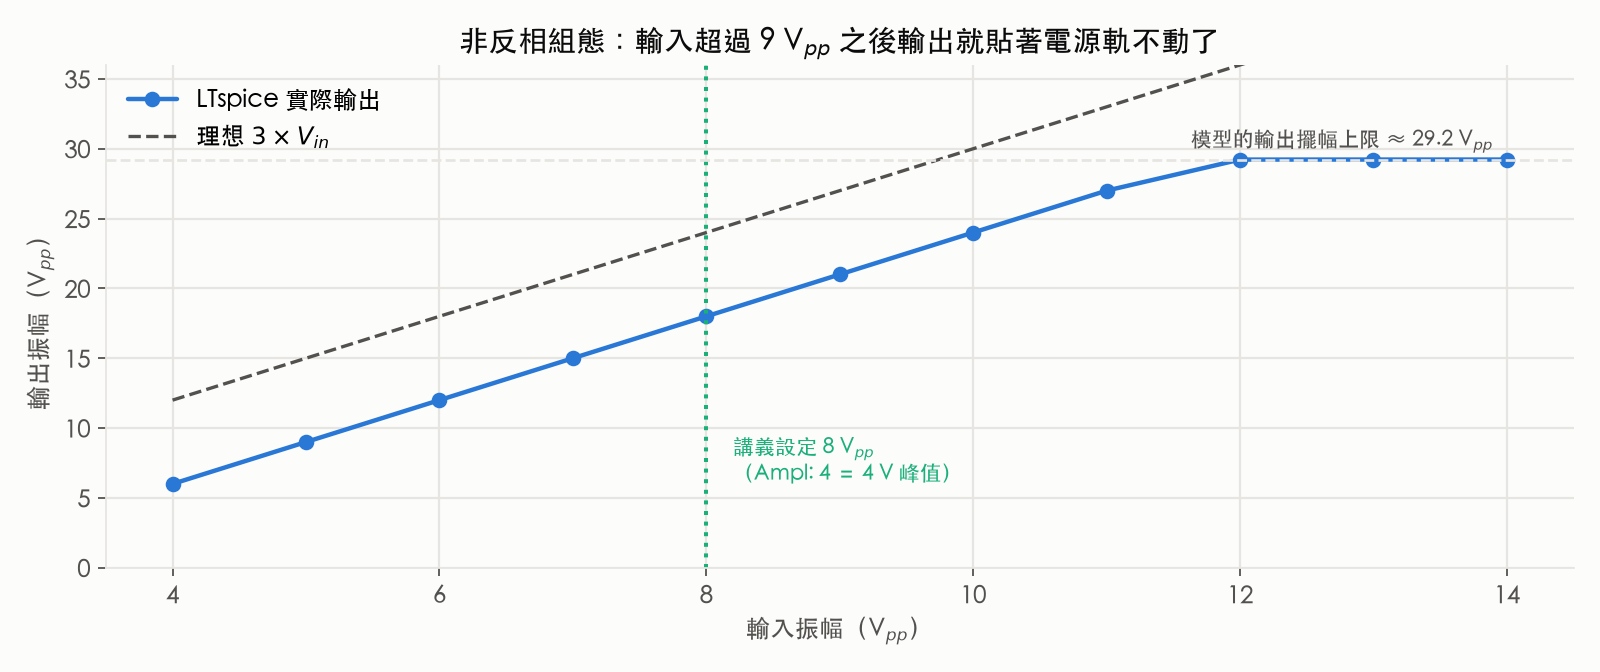
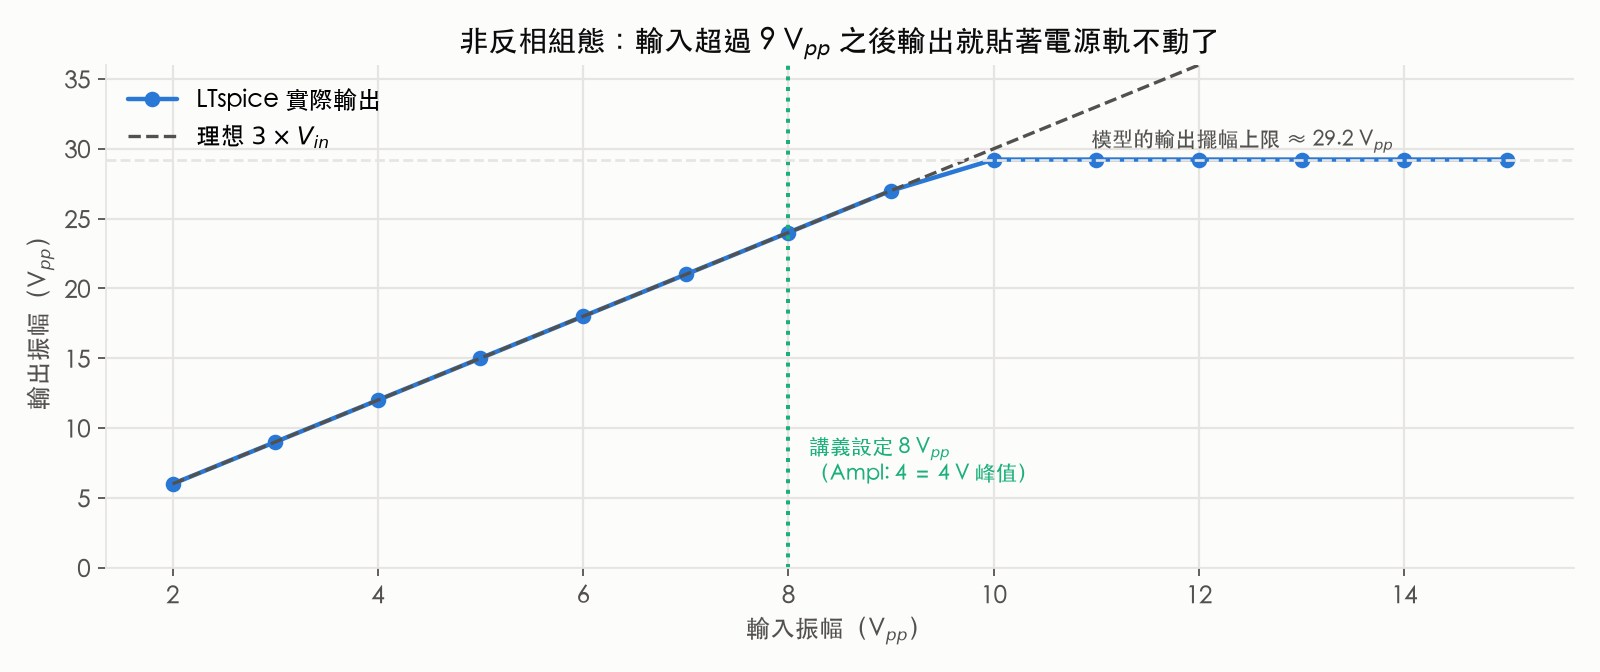
fix: 修正 Lab 4 削平圖的振幅對位錯誤，並釐清記錄簿貼錯工作表的註解
- **修正** `simulations/lab4/plot.py` 的 `amps` 寫死成 2～7 V 峰值，與網表 `.step param A 1 7.5 0.5` 不同步，`zip()` 把每條 trace 配到錯的振幅：`lab4-clipping.png` 的量測曲線整條右移 2 V_pp、尾端 3 點被丟掉，增益看起來只有 1.5、轉折落在 12 V_pp，和圖自己的標題、理想 3×V_in 虛線、筆記圖說全部矛盾。改成由 trace 數推算，重產該圖
- **修正** Lab 5 記錄簿實驗二「V_in2 = 0」的註解誤導：同相加法器拔掉蕊線是讓那一路**開路**而非接地，V+ 會從 (V_in1+V_in2)/2 變成 V_in1，輸出變成 8 V_pp（預報值的兩倍，已用 LTspice 複驗）。拆成實驗一／實驗二兩種寫法，實驗二改用警示字色
- **修正** Lab 4 記錄簿「實驗二 反相放大器」沿用到非反相組態的削平說明，改成該表自己的門檻（14 V_pp 仍線性、15 V_pp 才削平）
- **修正** Lab 5 記錄簿三張工作表都寫「實驗一只有三顆，R4 留白」，實驗二、三實際用四顆
- **修正** 第 10 週筆記偏壓補償的倍率：16.010 / 0.0653 = 245 倍，原本寫 230 倍是用四捨五入後的 0.07 回算；表格一併改成 +0.065 mV
- **新增** 第 11 週筆記實驗二檢查點一條「不可以拔蕊線」，並調整實驗一同一處的措辭（虛接地使開路與接地同結果）

驗證：ltspice-pred.json 與 .raw 重算全部 maxdiff = 0、兩本 xlsx 與腳本輸出逐格相同（只有上述文字格變動，數值／公式／版面未動）、check-bold 與中文為主自檢皆過、tsc --noEmit 無錯、astro build 159 頁通過。

Claude-Session: https://claude.ai/code/session_01KhUmVaNvE454Qv6uw1JMH9

diff --git a/simulations/lab5/build_record_xlsx.py b/simulations/lab5/build_record_xlsx.py
@@ -71,7 +71,8 @@ def info_block(ws, row, exp):
         ('R1 實測（Ω）', '#,##0', '標稱 10 kΩ 1/4 W；接上電路前用 GDM-532 電阻檔量'),
         ('R2 實測（Ω）', '#,##0', '同上'),
         ('R3 實測（Ω）', '#,##0', '同上'),
-        ('R4 實測（Ω）', '#,##0', '同上（實驗一只有三顆，R4 留白）'),
+        ('R4 實測（Ω）', '#,##0',
+         '同上（這個實驗只有三顆電阻，R4 留白）' if exp == 1 else '同上'),
         ('V+ 實測（V）', F3, '通電後量腳 7 對地，應該接近 +15'),
         ('V− 實測（V）', F3, '量腳 4 對地，應該接近 −15'),
     ]
@@ -128,10 +129,19 @@ def sweep_table(ws, row, exp):
                 '那個值除以 10 V_pp 再取對數就是這組電阻的 CMRR。')
         rx.note(ws, r1 + 2,
                 '想省事可以把兩條蕊線都夾在第 40 欄（V_in1 那一欄），一台產生器就能做共模測試。')
+    elif exp == 1:
+        rx.note(ws, r1 + 1,
+                '第一列 V_in2 = 0：把 CH2 的振幅轉到最小（這一路拔掉蕊線也可以——另一端是虛接地，'
+                '開路與接地的結果一樣），輸出應該只剩下 V_in1 那一路的貢獻 4 V_pp。'
+                '這是「虛接地把兩路隔開」最快的驗證。')
+        rx.note(ws, r1 + 2,
+                '實測 V_in1／V_in2 要各量一次：示波器 CH1 的探棒先夾一路、記好，再移到另一路。')
     else:
         rx.note(ws, r1 + 1,
-                '第一列 V_in2 = 0：把 CH2 的振幅轉到最小（或直接拔掉蕊線，讓那一路接地），'
-                '輸出應該只剩下 V_in1 那一路的貢獻——這是確認兩路互不干擾最快的方法。')
+                '第一列 V_in2 = 0：這一路只能把 CH2 的振幅轉到最小，不可以拔蕊線。'
+                '同相加法器拔掉之後那一路是開路、不是接地，V+ 會從 (V_in1+V_in2)/2 變成 V_in1，'
+                '輸出變成 8 V_pp（預報的兩倍）。兩路在這裡本來就會互相負載，'
+                '這正是它和反相加法器最大的差別。', font=rx.WARN)
         rx.note(ws, r1 + 2,
                 '實測 V_in1／V_in2 要各量一次：示波器 CH1 的探棒先夾一路、記好，再移到另一路。')
     return r0, r1, r1 + 4

diff --git a/simulations/lab4/build_record_xlsx.py b/simulations/lab4/build_record_xlsx.py
@@ -107,7 +107,10 @@ def amp_table(ws, row, exp, av_cell):
     r1 = r0 + len(AMP) - 1
     rx.note(ws, r1 + 1,
             '非反相組態的 LTspice 預報在 9 V_pp 還是線性（27.0 V_pp）、10 V_pp 就被壓到 29.2 V_pp；'
-            '當天若更早削平，先確認電源真的是 ±15 V。')
+            '當天若更早削平，先確認電源真的是 ±15 V。'
+            if exp == 1 else
+            '反相組態的增益只有 2，LTspice 預報到 14 V_pp 都還是線性（28.0 V_pp），'
+            '要 15 V_pp 才被壓到 29.2 V_pp；想在這張表上看到削平，得把輸入再往上推。')
     rx.note(ws, r1 + 2,
             '實測 V_in 用示波器 CH1 的 Pk-Pk 讀值，不要抄產生器面板的設定值'
             '（開路時面板值約為實際的兩倍）。')

diff --git a/simulations/lab4/plot.py b/simulations/lab4/plot.py
@@ -134,8 +134,8 @@ pred['q3_small']['av'] = pred['q3_small']['vo_pp'] / pred['q3_small']['vin_pp']
 save(f, 'lab4-slew-vs-bandwidth')
 
 # ── 輸入振幅掃描：非反相組態幾伏開始削平 ─────────────────────────────────────
-amps = np.arange(2, 7.01, 0.5)
 st = raw('lab4-exp1-amp-sweep.raw')[1]
+amps = 1 + 0.5 * np.arange(len(st))        # 對齊網表的 .step param A 1 7.5 0.5（峰值）
 rows = []
 for amp, s in zip(amps, st):
     s = win(s, 1.5e-3)
